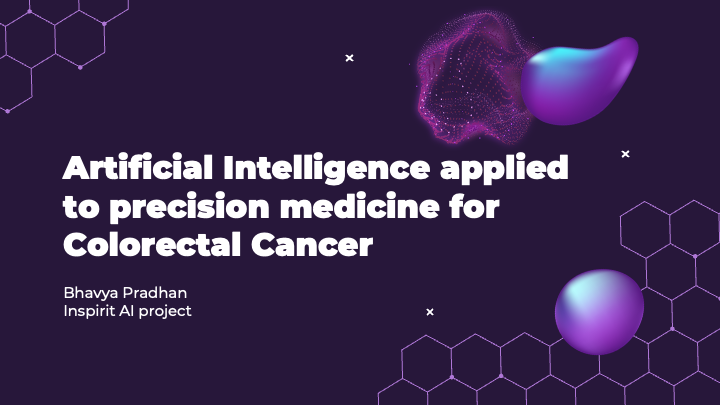
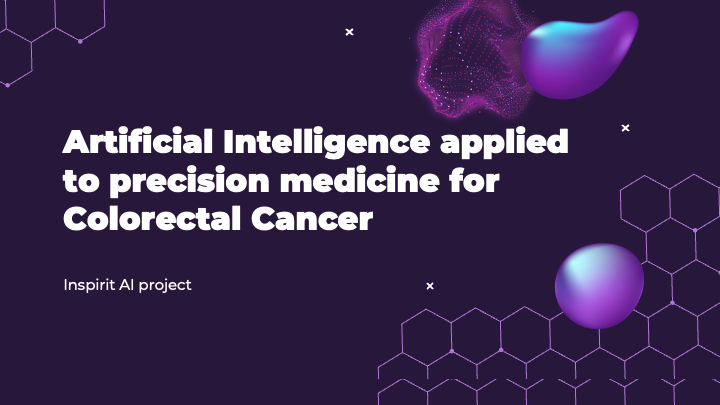
small fixes

diff --git a/imaging/index.html b/imaging/index.html
@@ -24,6 +24,10 @@
           <h3>AI assisted precision medicine</h3>
           <p>Precision treatment guidance for colorectal cancer using CNNs to classify tissue histology images</p>
         </a>
+        <a class="card" href="skin.html">
+          <h3>AI assisted skin cancer detection</h3>
+          <p>Skin cancer detection using CNN and KNN models</p>
+        </a>
 <!--
         <a class="card" href="ar.html">
           <h3>Augmented Reality</h3>
